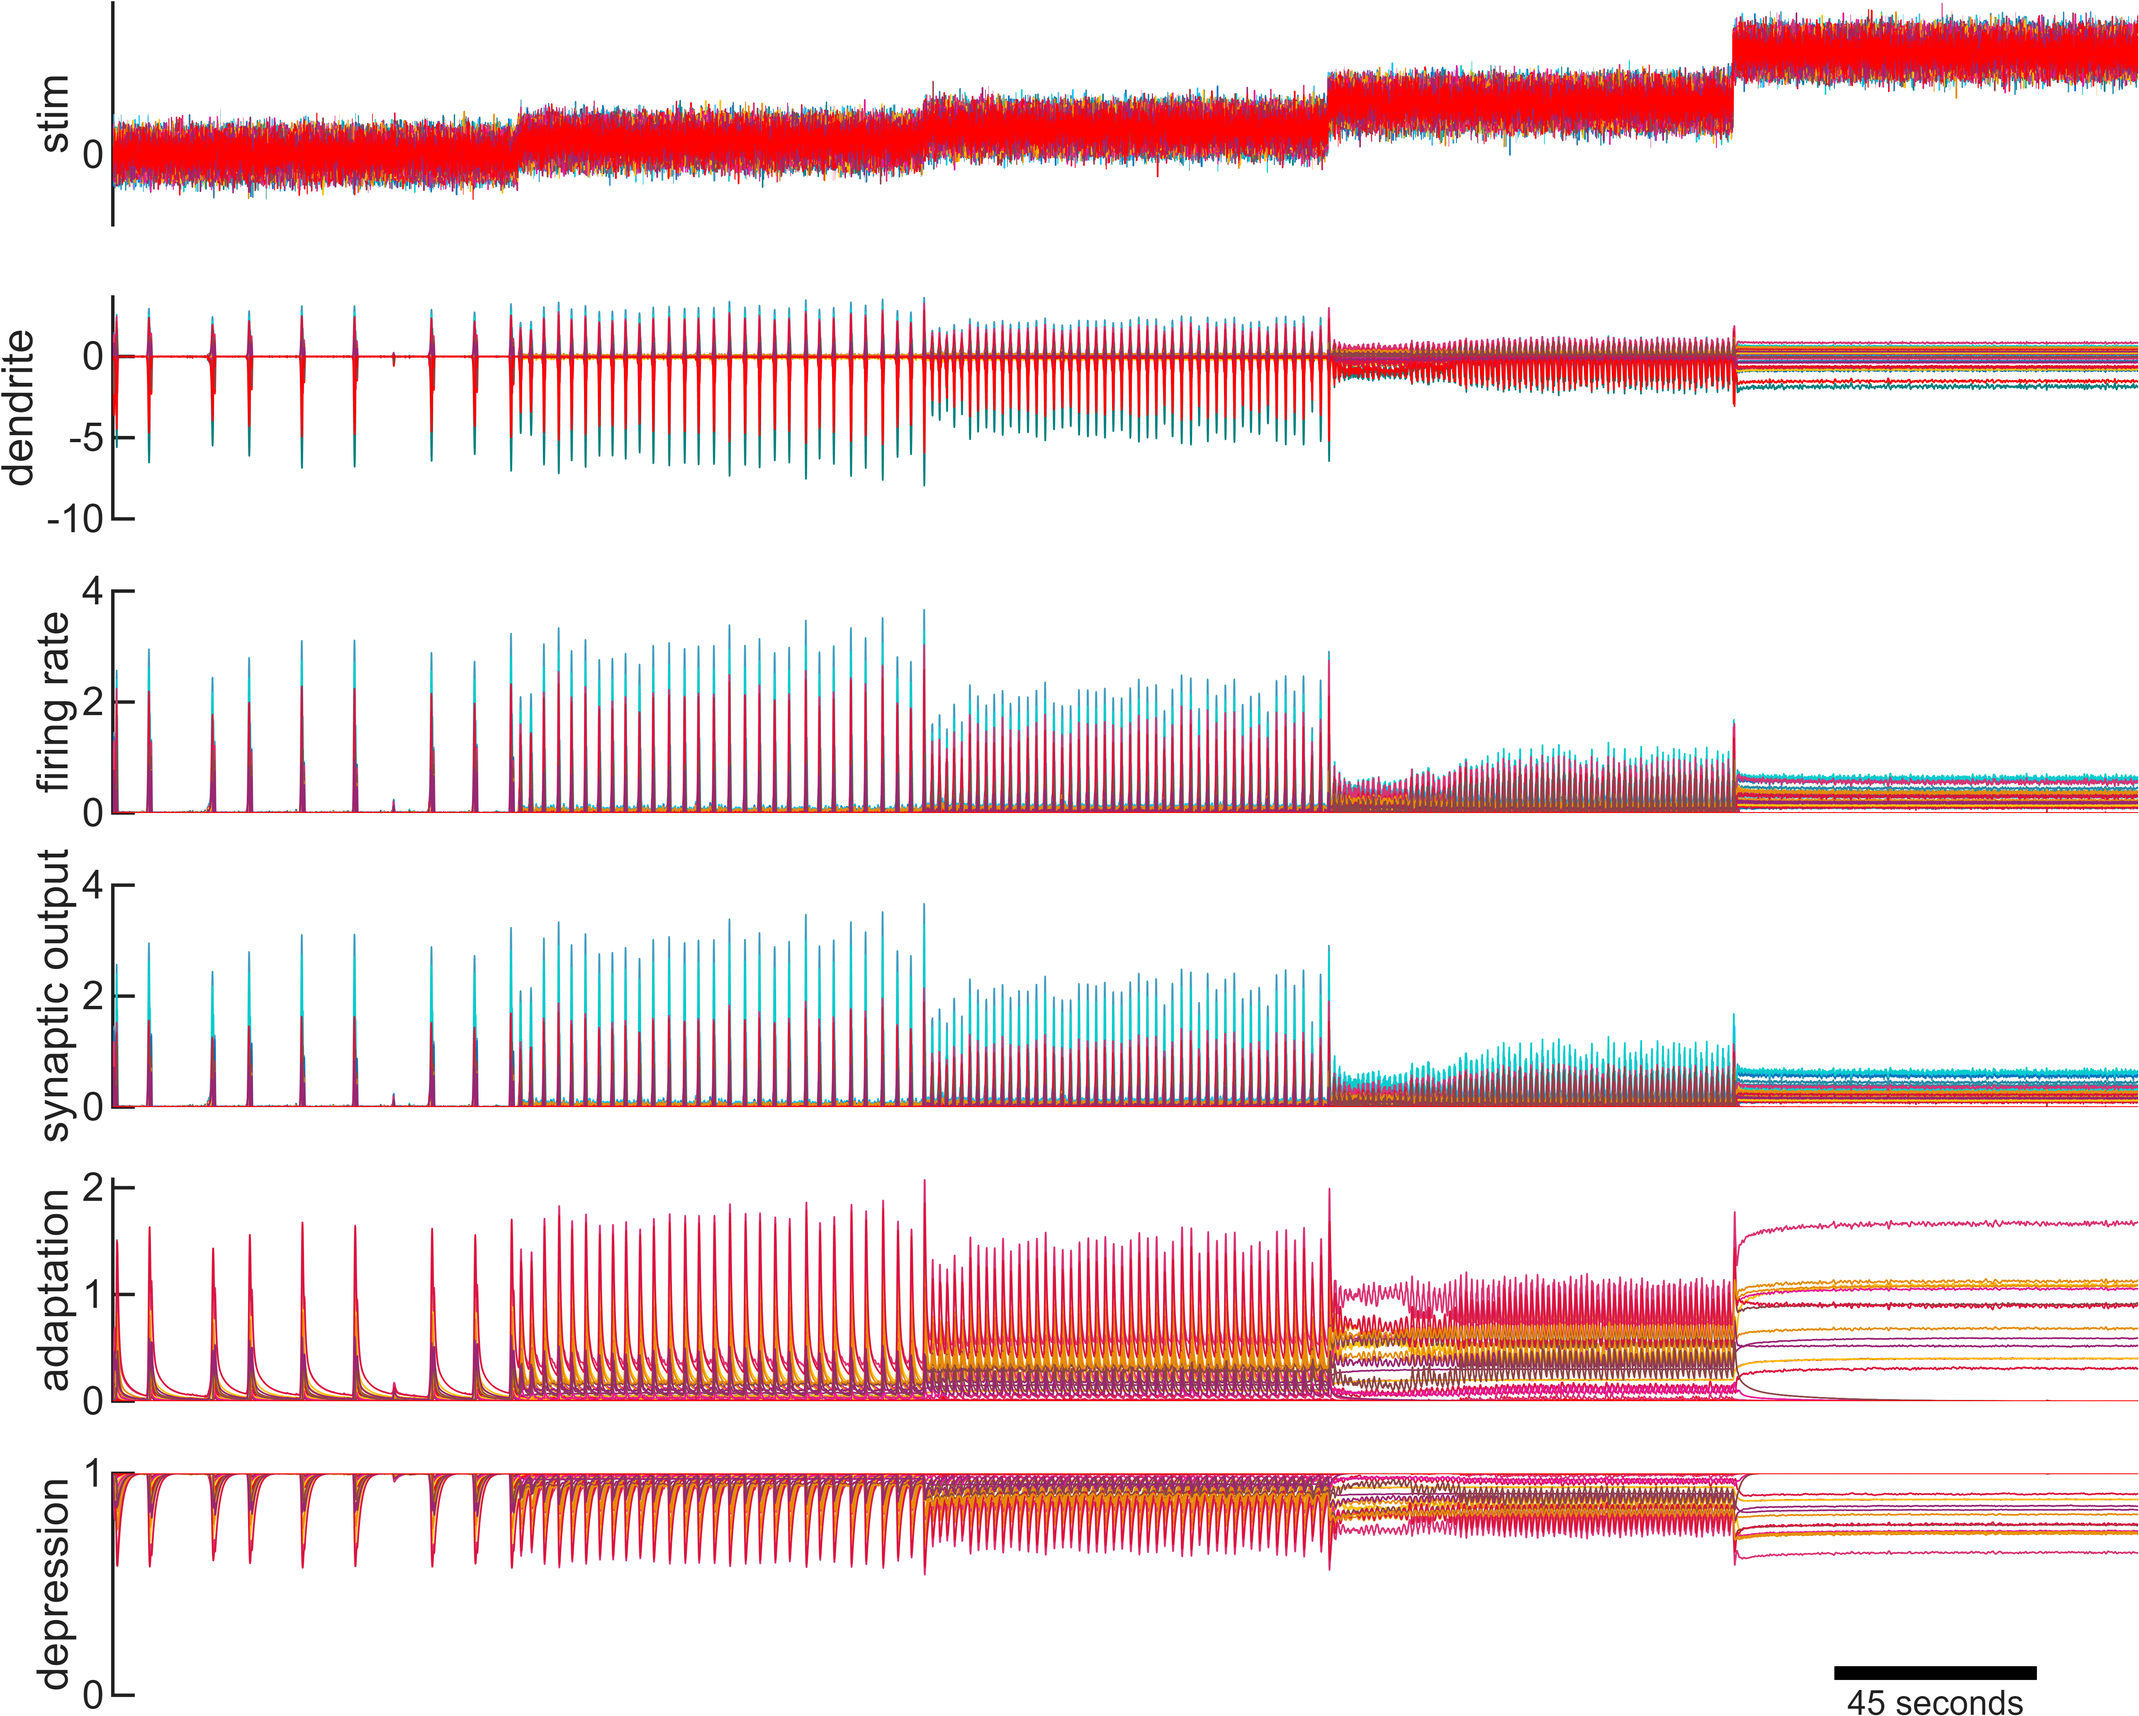
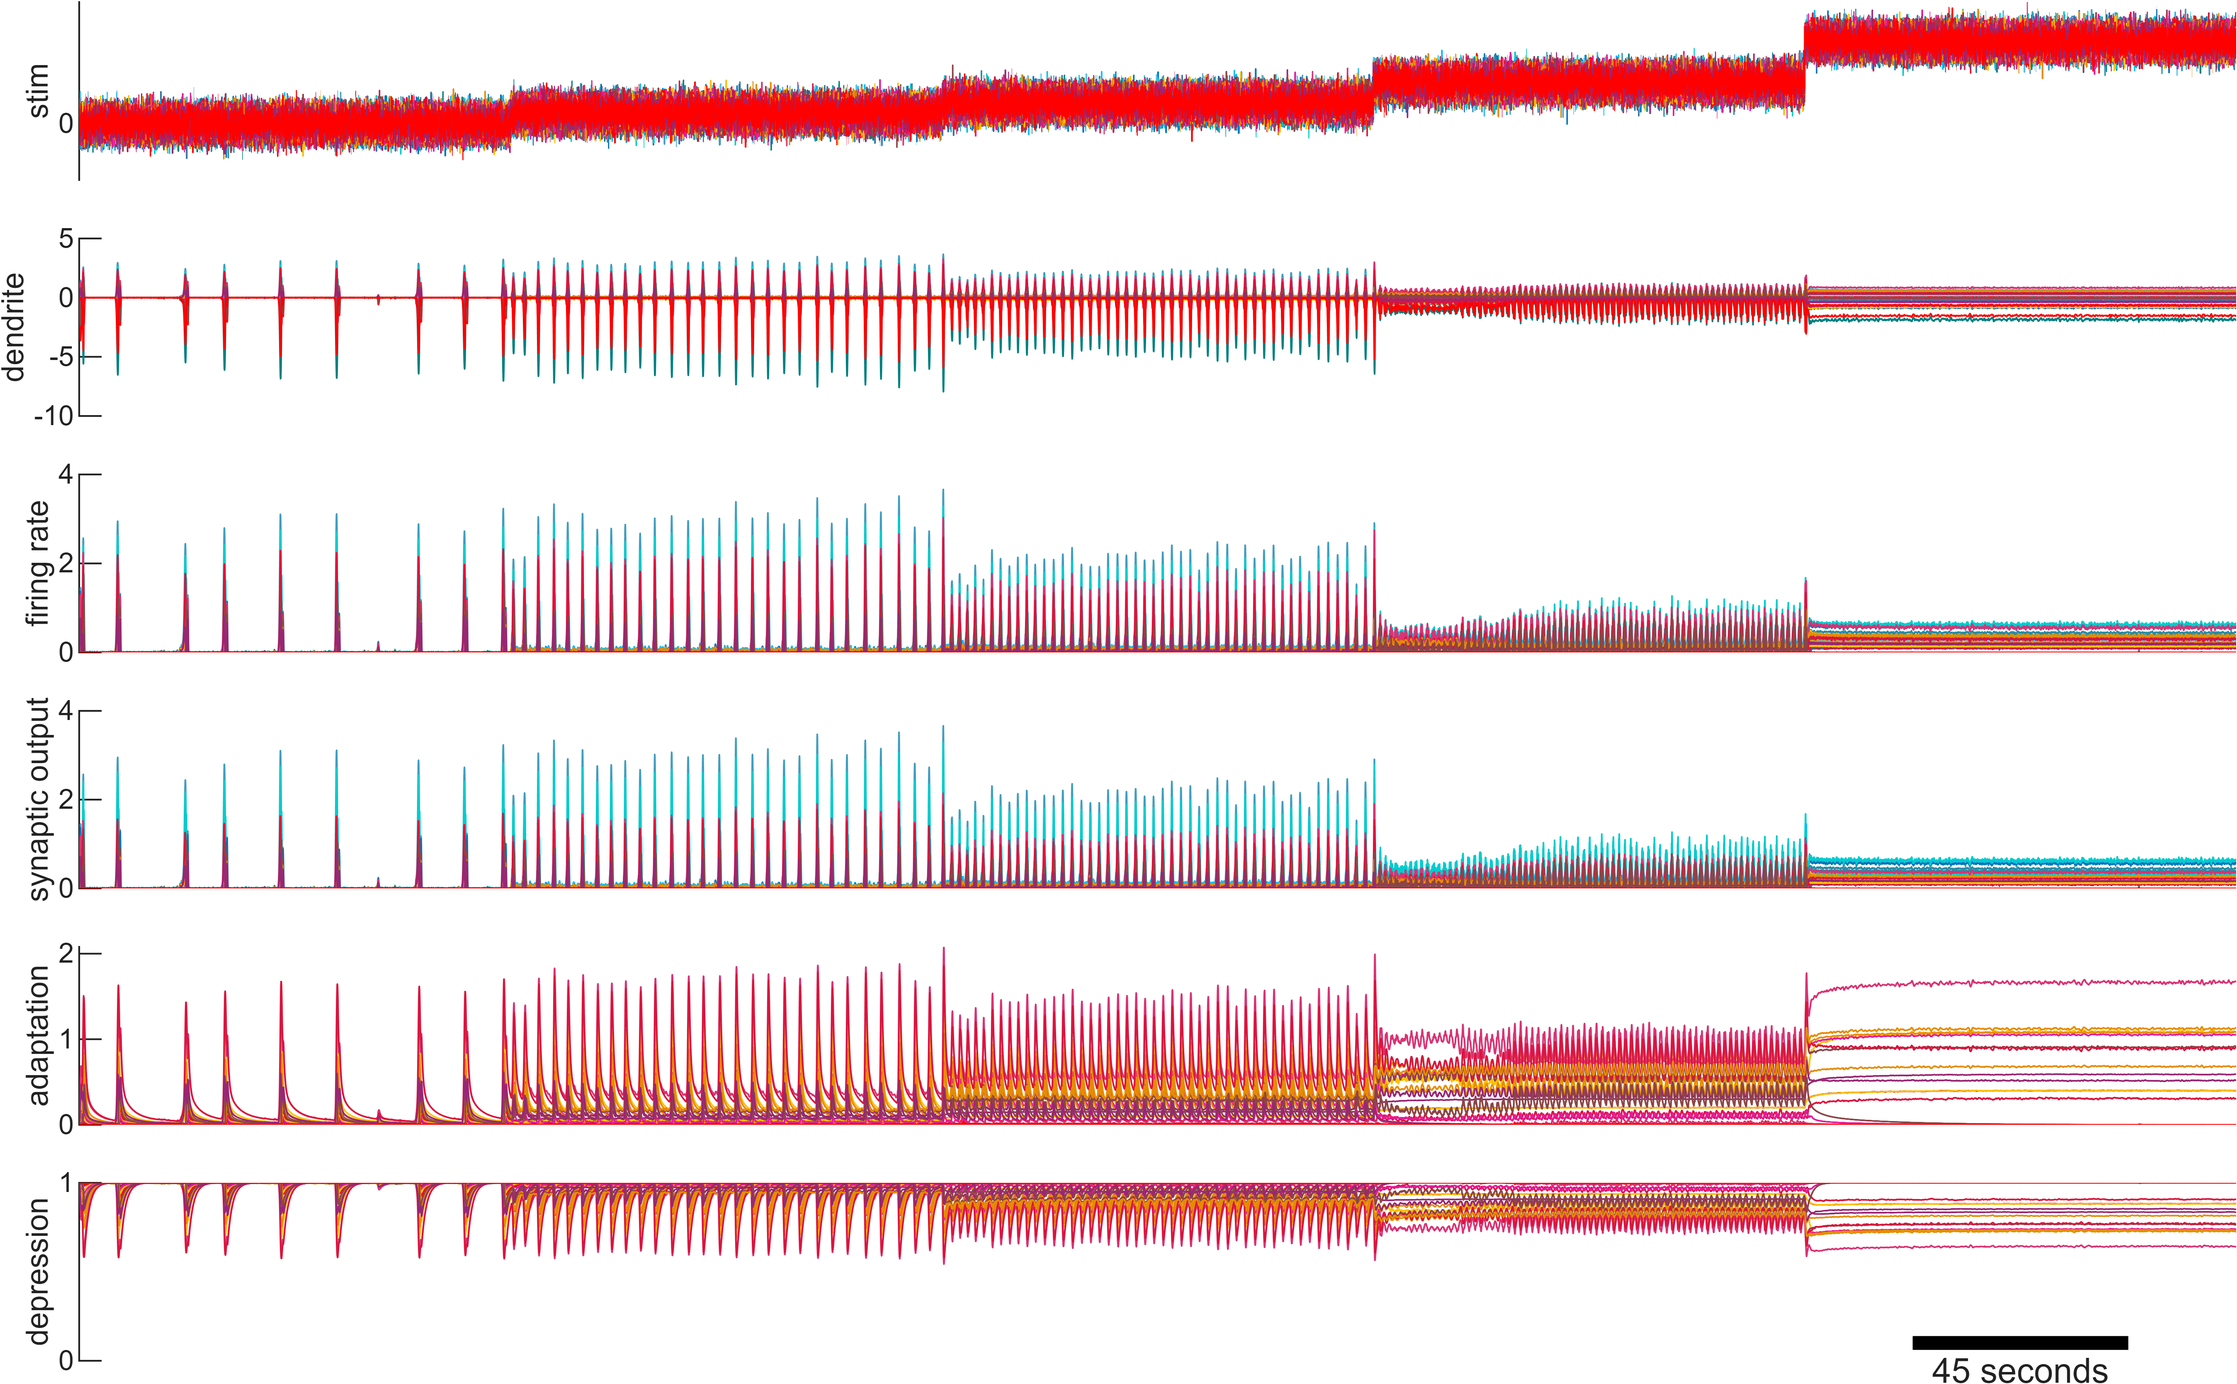
stim vs no stim bursting fig simplified

diff --git a/scripts/presentations/Stability_Manuscript/fig_stim_engages_adaptation/bursting_SRNN_model_good_ex.m b/scripts/presentations/Stability_Manuscript/fig_stim_engages_adaptation/bursting_SRNN_model_good_ex.m
@@ -197,7 +197,7 @@ save_types = {'png'};   % formats; pdf bundles all figs into one _report.pdf
 psd_settle       = 15;    % seconds to skip after each DC step before the PSD window
 psd_win_len_s    = 10;    % Hamming window length (s)   [template used 15]
 psd_overlap_frac = 0.5;  % segment overlap fraction    [template used 0.75]
-psd_f            = logspace(log10(0.1), log10(100), 100);  % requested freqs (Hz)
+psd_f            = logspace(log10(0.3), log10(80), 100);  % requested freqs (Hz)
 
 %% ======================================================================
 %  11. CONSTRUCT, BUILD, RUN, PLOT
@@ -254,8 +254,14 @@ figure('Name', 'PSD of Mean Dendritic Potential vs DC level', ...
     'Position', [20   297   505   418]);
 hold on;
 cmap = parula(nL+1);
-labels = cell(nL, 1);
-for k = 1:nL
+% Only show a subset of DC levels (here DC = 0 and DC = 0.2), but keep the
+% parula(nL+1) colors indexed by the original level number so the traces
+% match the full-staircase color scheme.
+psd_show_levels = [1 5];
+psd_show_labels = {'no-stim', 'stim'};   % legend text for each shown level
+labels = cell(numel(psd_show_levels), 1);
+for ii = 1:numel(psd_show_levels)
+    k = psd_show_levels(ii);
     % Steady window for level k: skip the first psd_settle s after the step.
     lo  = (k-1)*hold_dur + psd_settle;
     hi  = k*hold_dur;
@@ -271,7 +277,7 @@ for k = 1:nL
     
     [pxx, fpx] = pwelch(x_seg, win, noverlap, psd_f, model.fs);
     plot(fpx, pxx, 'LineWidth', 1.5, 'Color', cmap(k, :));
-    labels{k} = sprintf('DC = %.3g', dc_levels(k));
+    labels{ii} = psd_show_labels{ii};
 end
 hold off;
 psd_ax = gca;
@@ -279,6 +285,7 @@ tick_fs = 14;
 label_fs = 15.4;
 legend_fs = 12.6;
 set(psd_ax, 'XScale', 'log', 'YScale', 'log', 'FontSize', tick_fs);
+xlim(psd_ax, [0.2 90]);
 xlabel(psd_ax, 'Frequency (Hz)', 'FontSize', label_fs);
 ylabel(psd_ax, 'PSD $x^2$/Hz', 'Interpreter', 'latex', ...
     'FontSize', label_fs);
